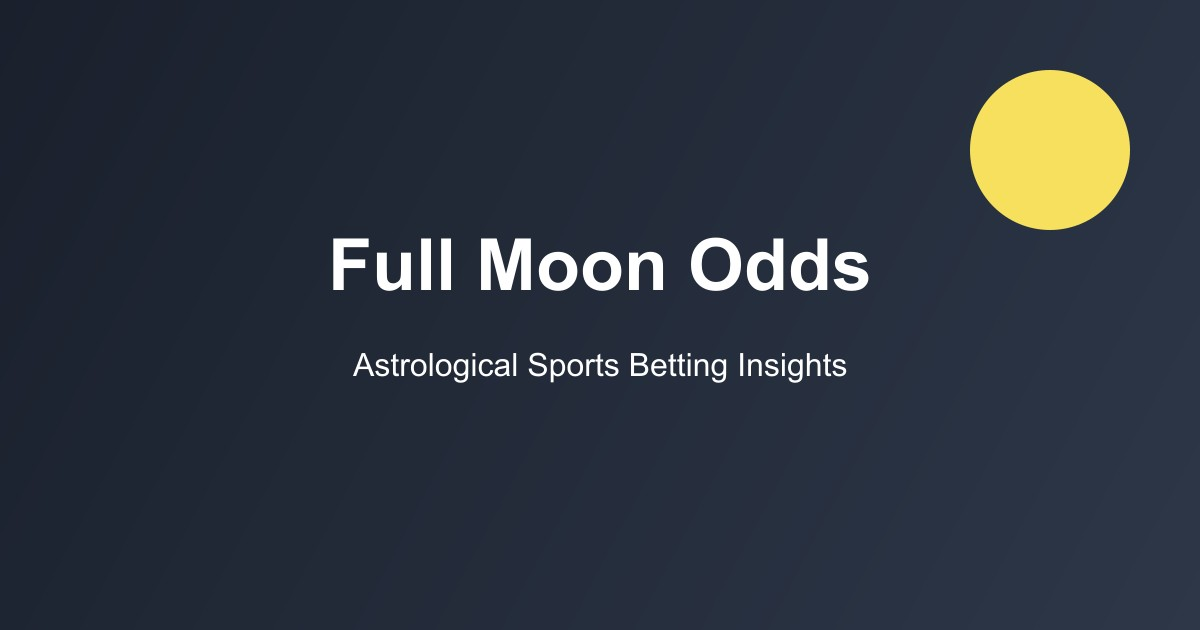
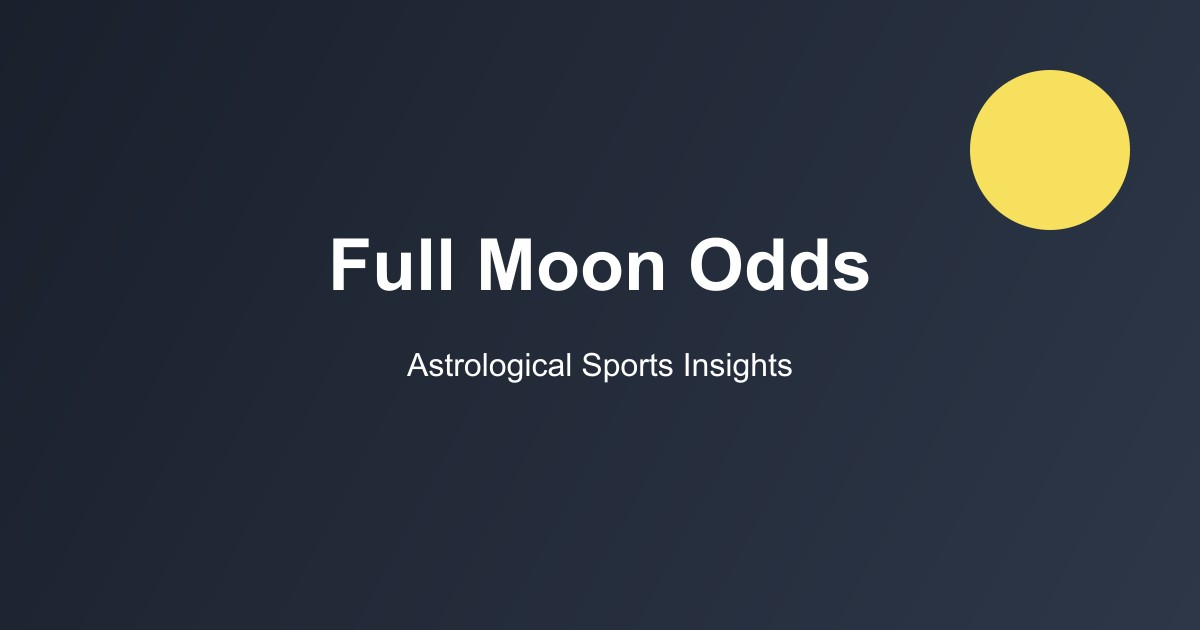
refactor: remove 'betting' from branding and SEO
- Updated default title to 'Full Moon Odds - Astrological Sports Insights'
- Updated default description to remove 'betting' reference
- Regenerated OG image with updated subtitle text
- Ensured consistent branding across all public-facing text

Changed region(s): [[0.2775, 0.5429, 0.7092, 0.6032]]

diff --git a/src/components/SeoMetaTags.tsx b/src/components/SeoMetaTags.tsx
@@ -15,8 +15,8 @@ interface SeoMetaTagsProps {
   noFollow?: boolean;
 }
 
-const DEFAULT_TITLE = 'Full Moon Odds - Astrological Sports Betting Insights';
-const DEFAULT_DESCRIPTION = 'Get data-driven sports betting insights powered by astrological analysis and team chemistry metrics.';
+const DEFAULT_TITLE = 'Full Moon Odds - Astrological Sports Insights';
+const DEFAULT_DESCRIPTION = 'Get data-driven sports insights powered by astrological analysis and team chemistry metrics.';
 const DEFAULT_IMAGE = '/images/og-default.jpg';
 const DEFAULT_URL = 'https://fullmoonodds.com';
 

diff --git a/scripts/generate-og-image.js b/scripts/generate-og-image.js
@@ -35,7 +35,7 @@ context.fillText('Full Moon Odds', width / 2, height / 2 - 50);
 
 // Subtitle
 context.font = '32px Arial';
-context.fillText('Astrological Sports Betting Insights', width / 2, height / 2 + 50);
+context.fillText('Astrological Sports Insights', width / 2, height / 2 + 50);
 
 // Add a moon icon (simple circle)
 context.beginPath();
